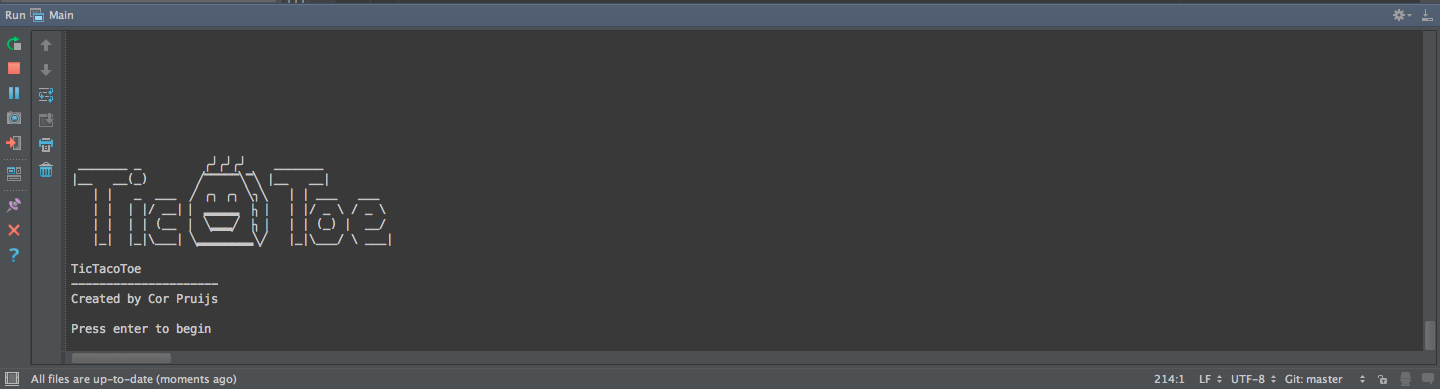
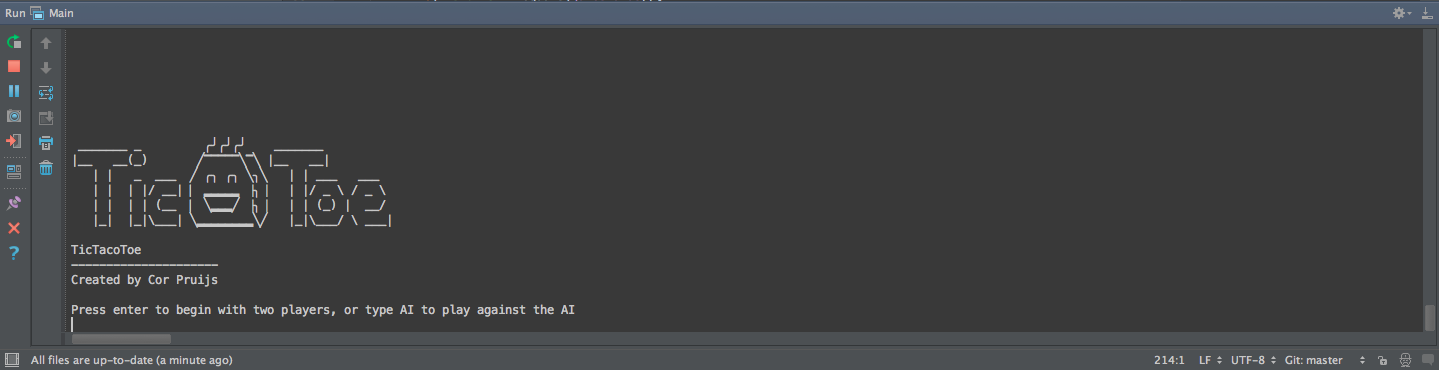
AI update
Added AI
Added a bunch of javadoc comments
Added the option to quit the game at any time by typing quit
Updated the startscreen screenshot to show the AI option

diff --git a/src/com/pruys/cor/Game.java b/src/com/pruys/cor/Game.java
@@ -1,5 +1,6 @@
 package com.pruys.cor;
 
+import java.util.Random;
 import java.util.Scanner;
 
 /**
@@ -10,14 +11,16 @@ import java.util.Scanner;
 public class Game {
 
     public String gameStatus = "STARTSCREEN";
-    private String lastUserInput;
+    private String lastUserInput = "init";
     private int[] level = new int[9];
+    public boolean aiEnabled = false;
 
     Scanner scanIn = new Scanner(System.in);
 
 
-
-
+    /**
+     * The only constructor, clears the screen and starts the main game loop
+     */
     public Game () {
         clearScreen();
         clearLevel();
@@ -25,15 +28,27 @@ public class Game {
     }
 
 
+
+    /**
+     * Runs the main game loop
+     */
     private void runGame() {
 
 
         while(!"SHUTDOWN".equals(gameStatus)){
 
-            if("STARTSCREEN".equals(gameStatus)) {
+            if ("quit".equals(lastUserInput.toLowerCase())) gameStatus = "SHUTDOWN";
+
+            else if("STARTSCREEN".equals(gameStatus)) {
+                aiEnabled = false;
                 clearScreen();
                 printIntro();
                 scanInput();
+
+                if("ai".equals(lastUserInput.toLowerCase())) {
+                    aiEnabled = true;
+                }
+
                 clearScreen();
                 clearLevel();
 
@@ -52,6 +67,7 @@ public class Game {
                 println("To choose a spot, you'll need to type the representative number and hit return");
                 println("Example: If one wants to choose the spot in the middle, he shall enter 5");
                 println("");
+                println("You can quit the game at any time by typing \"quit\" (without the quotes)");
                 println("Good Luck!             (Press enter to continue)" );
                 scanInput();
                 clearScreen();
@@ -70,6 +86,7 @@ public class Game {
 
                     if (gameWon(1)) gameStatus = "VICTORY_X";
                     else if (gameIsTie()) gameStatus = "TIE";
+                    else if (aiEnabled) gameStatus = "TURN_AI";
                     else gameStatus = "TURN_O";
                 }
                 else {
@@ -99,6 +116,20 @@ public class Game {
                 }
             }
 
+            else if("TURN_AI".equals(gameStatus)) {
+                int randomField = randomInt(1, 9);
+
+                if( fieldIsEmpty(randomField - 1)) {
+                    setField(2, randomField);
+                    clearScreen();
+                    println("AI changed field " + randomField + " to O");
+
+                    if(gameWon(2)) gameStatus = "VICTORY_AI";
+                    else if (gameIsTie()) gameStatus = "TIE";
+                    else gameStatus = "TURN_X";
+                }
+            }
+
             else if ("VICTORY_X".equals(gameStatus)) {
                 clearScreen();
                 printLevel();
@@ -119,6 +150,18 @@ public class Game {
                 gameStatus = "STARTSCREEN";
             }
 
+            else if ("VICTORY_AI".equals(gameStatus)) {
+                clearScreen();
+                printLevel();
+                println("THE AI HAS WON!");
+                println("You're probably extremely bad at this game...");
+                println("Press enter to play again");
+                scanInput();
+                clearScreen();
+                gameStatus = "STARTSCREEN";
+
+            }
+
             else if ("TIE".equals(gameStatus)) {
                 clearScreen();
                 printLevel();
@@ -133,7 +176,78 @@ public class Game {
         }
     }
 
-    private void printLevel(){
+    /**
+     *
+     * used by the printlevel class
+     *
+     * @param i the field you want to acces ( 0 - 8 )
+     * @return the character that needs to be placed here
+     */
+    private String getCharacter(int i) {
+
+        if( level[i] == 0) return("" + (i + 1));
+        else if( level[i] == 1) return("X");
+        else if( level[i] == 2) return("O");
+        else return("E");
+
+    }
+
+    /**
+     * Set a field in the level
+     *
+     * @param value 0 (empty), 1 (x) or 2 (o)
+     * @param position the field of the level you want to set.
+     */
+    private void setField(int value, int position) {
+        position--;
+        level[position] = value;
+    }
+
+    /**
+     * Resets level[]
+     */
+    private void clearLevel() {
+
+        for(int i = 0; i < 9; i++) {
+            level[i] = 0;
+        }
+
+    }
+
+    /**
+     * Returns a pseudo-random number between min and max, inclusive.
+     *
+     * @param min Minimum value
+     * @param max Maximum value.  Must be greater than min.
+     * @return Integer between min and max, inclusive.
+     * @see java.util.Random#nextInt(int)
+     */
+    public static int randomInt(int min, int max) {
+
+        Random rand = new Random();
+
+        // nextInt is normally exclusive of the top value,
+        // so add 1 to make it inclusive
+        int randomNum = rand.nextInt((max - min) + 1) + min;
+
+        return randomNum;
+    }
+
+
+
+
+    /**
+     * A shorter version of System.out.println() because this program uses a lot of console printing
+     * @param x the string to print
+     */
+    private void println(String x) {
+        System.out.println(x);
+    }
+
+    /**
+     * Prints the level in the console, accesses the level[] array for level data
+     */
+    private void printLevel() {
 
         System.out.println("-------------"); //Top
 
@@ -174,48 +288,71 @@ public class Game {
     }
 
     /**
-     *
-     * used by the printlevel class
-     *
-     * @param i the field you want to acces ( 0 - 8 )
-     * @return the character that needs to be placed here
+     * Prints the start screen
      */
-    private String getCharacter(int i){
+    private void printIntro() {
 
-        if( level[i] == 0) return("" + (i + 1));
-        else if( level[i] == 1) return("X");
-        else if( level[i] == 2) return("O");
-        else return("E");
+        /*
+         _______ _         ╭╯╭╯╭╯    _______
+        |__   __(_)       ╱▔▔▔▔▔╲▔╲ |__   __|
+           | |   _  ___  ╱ ╭╮ ╭╮ ╲╮╲   | | ___   ___
+           | |  | |/ __| ▏ ▂▂▂▂▂ ▕╮▕   | |/ _ \ / _ \
+           | |  | | (__  ▏ ╲▂▂▂╱ ▕╮▕   | | (_) |  __/
+           |_|  |_|\___| ╲▂▂▂▂▂▂▂▂╲╱   |_|\___/ \___|
+         */
 
-    }
-
-    /**
-     * Set a field in the level
-     *
-     * @param value 0 (empty), 1 (x) or 2 (o)
-     * @param position the field of the level you want to set.
-     */
-    private void setField(int value, int position) {
-        position--;
-        level[position] = value;
-    }
-
-    private void clearLevel(){
-
-        for(int i = 0; i < 9; i++) {
-            level[i] = 0;
-        }
-
+        println(" _______ _         ╭╯╭╯╭╯    _______");
+        println("|__   __(_)       ╱▔▔▔▔▔╲▔╲ |__   __|");
+        println("   | |   _  ___  ╱ ╭╮ ╭╮ ╲╮╲   | | ___   ___");
+        println("   | |  | |/ __| ▏ ▂▂▂▂▂ ▕╮▕   | |/ _ \\ / _ \\");
+        println("   | |  | | (__  ▏ ╲▂▂▂╱ ▕╮▕   | | (_) |  __/");
+        println("   |_|  |_|\\___| ╲▂▂▂▂▂▂▂▂╲╱   |_|\\___/ \\ ___|");
+        println("");
+        println("TicTacoToe");
+        println("---------------------");
+        println("Created by Cor Pruijs");
+        println("");
+        println("Press enter to begin with two players, or type AI to play against the AI");
     }
 
     /**
      * Prints a lot of empty lines to create the illusion of an "empty" console
      */
-    private void clearScreen(){
+    private void clearScreen() {
 
         for(int i = 0; i < 100; i++) {
             System.out.println("");
         }
+    }
+
+
+
+
+
+    private void scanInput() {
+
+        String userInput;
+
+        try {
+        userInput = scanIn.nextLine();
+        lastUserInput = "" + userInput;
+
+        }
+        catch ( java.util.NoSuchElementException x) {
+            lastUserInput = "";
+
+        }
+
+    }
+
+    /**
+     * Checks if the lastUserInput is a valid field
+     */
+    private boolean lastUserInputIsAField() {
+        for (int i = 1; i <= 9; i++) {
+            if (lastUserInput.equals("" + i)) return true;
+        }
+        return false;
     }
 
     /**
@@ -240,68 +377,10 @@ public class Game {
     }
 
     /**
-     * Prints the start screen
+     * Checks if the game is a tie
+     * @return true if the game is a tie, false if it isn't
      */
-    private void printIntro(){
-
-        /*
-         _______ _         ╭╯╭╯╭╯    _______
-        |__   __(_)       ╱▔▔▔▔▔╲▔╲ |__   __|
-           | |   _  ___  ╱ ╭╮ ╭╮ ╲╮╲   | | ___   ___
-           | |  | |/ __| ▏ ▂▂▂▂▂ ▕╮▕   | |/ _ \ / _ \
-           | |  | | (__  ▏ ╲▂▂▂╱ ▕╮▕   | | (_) |  __/
-           |_|  |_|\___| ╲▂▂▂▂▂▂▂▂╲╱   |_|\___/ \___|
-         */
-
-        println(" _______ _         ╭╯╭╯╭╯    _______");
-        println("|__   __(_)       ╱▔▔▔▔▔╲▔╲ |__   __|");
-        println("   | |   _  ___  ╱ ╭╮ ╭╮ ╲╮╲   | | ___   ___");
-        println("   | |  | |/ __| ▏ ▂▂▂▂▂ ▕╮▕   | |/ _ \\ / _ \\");
-        println("   | |  | | (__  ▏ ╲▂▂▂╱ ▕╮▕   | | (_) |  __/");
-        println("   |_|  |_|\\___| ╲▂▂▂▂▂▂▂▂╲╱   |_|\\___/ \\ ___|");
-        println("");
-        println("TicTacoToe");
-        println("---------------------");
-        println("Created by Cor Pruijs");
-        println("");
-        println("Press enter to begin");
-    }
-
-    /**
-     * A shorter version of System.out.println() because this program uses a lot of console printing
-     * @param x the string to print
-     */
-    private void println(String x) {
-        System.out.println(x);
-    }
-
-
-    private void scanInput() {
-
-        String userInput;
-
-        try {
-        userInput = scanIn.nextLine();
-        lastUserInput = "" + userInput;
-
-        }
-        catch ( java.util.NoSuchElementException x) {
-            lastUserInput = "";
-
-        }
-
-    }
-    /**
-     * Checks if the lastUserInput is a field
-     */
-    private boolean lastUserInputIsAField() {
-        for (int i = 1; i <= 9; i++) {
-            if (lastUserInput.equals("" + i)) return true;
-        }
-        return false;
-    }
-
-    public boolean gameIsTie(){
+    private boolean gameIsTie(){
         for (int i = 0; i <= 8; i++) {
             if (level[i] == 0) return false;
         }
